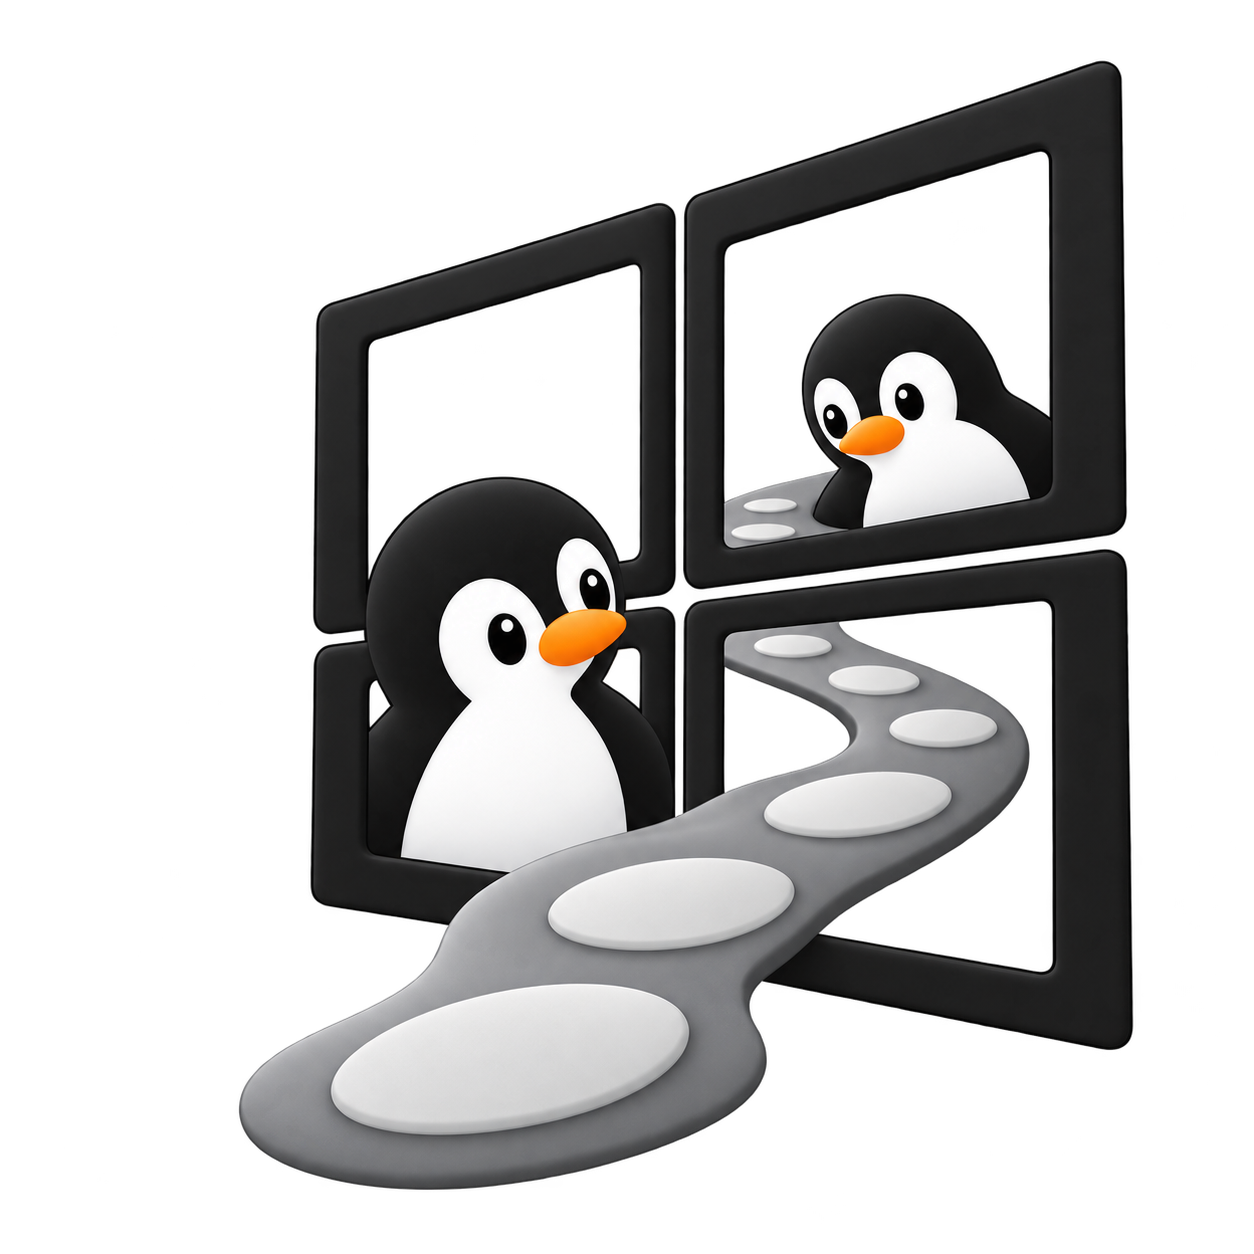
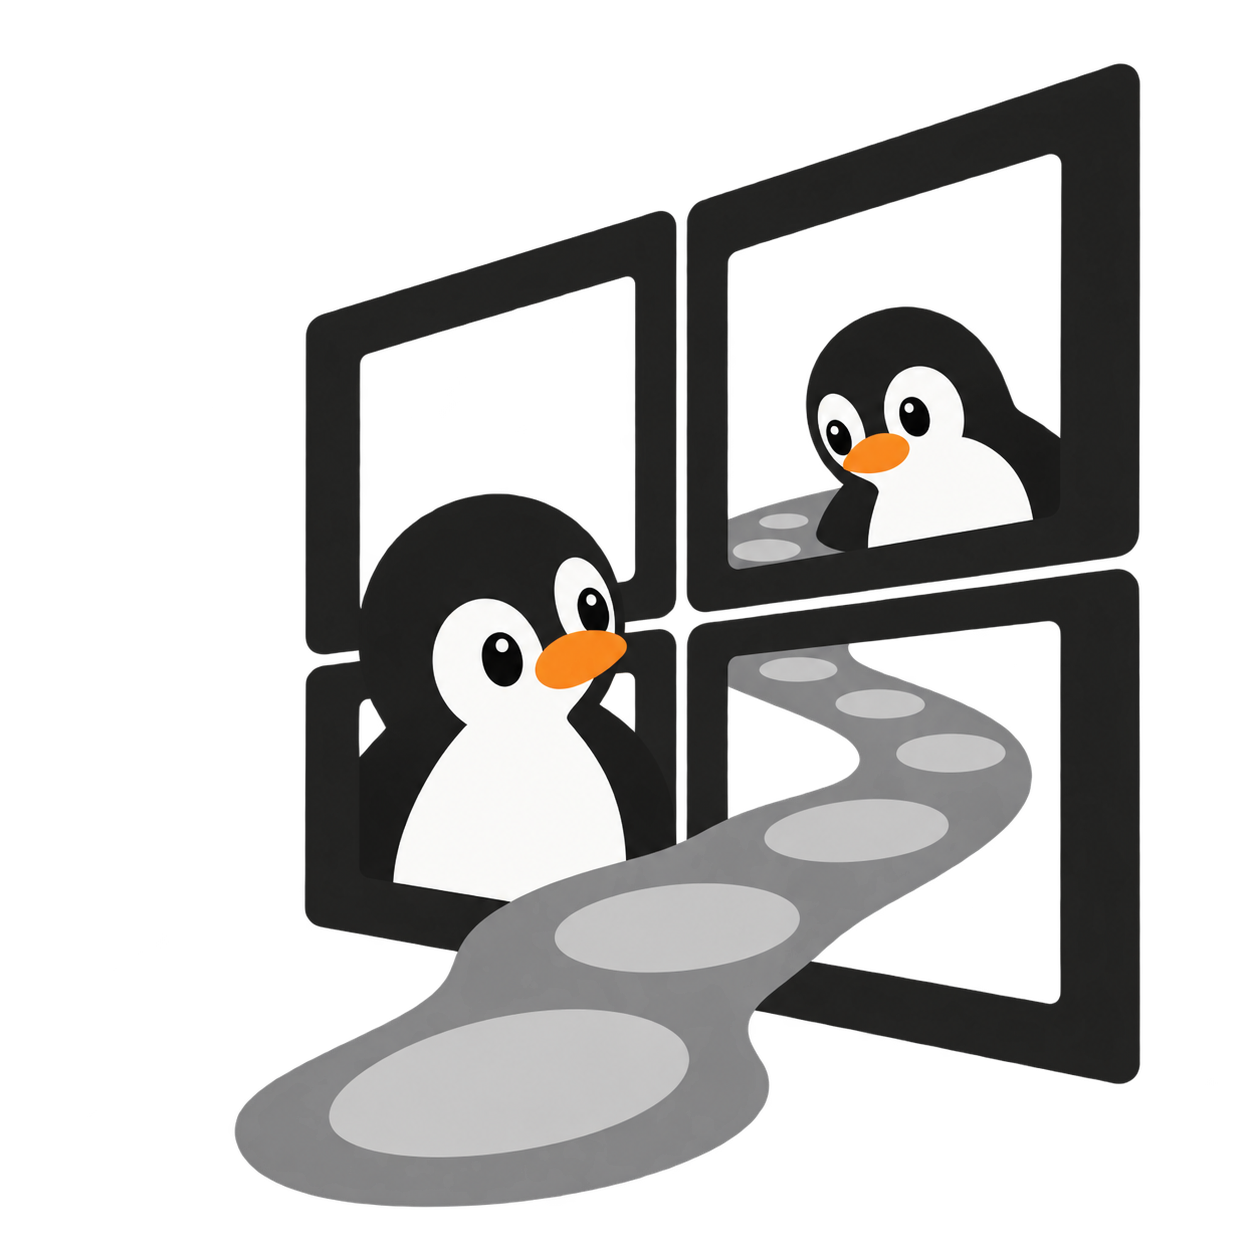
docs(assets): preserve independent application artwork updates
Preserve README and application image updates staged by separate work. Split these independent edits from the Venus queue verification change without altering their file contents.

Affects TODO: #1 (+0% progress)

diff --git a/README.md b/README.md
@@ -14,15 +14,14 @@ Unlike traditional full-screen virtual machine viewers, Waddle-LSW tracks indivi
 
 <img align="left" width="180" height="180" alt="Waddle-LSW Application Icon" src="imgs/default-window-icon.png" style="margin-right: 24px; margin-bottom: 20px;">
 
-The `waddle` CLI provides command-line control for subsystem lifecycle management, guest process execution, and device configuration:
+The `waddle` command provides access to the Windows guest and subsystem controls:
 
-- **Interactive Terminal**: Run `waddle` to start background services and open an interactive Windows ConPTY terminal session.
-- **Process Passthrough**: Execute commands directly inside the Windows guest using `waddle exec -- <command>`.
-- **Subsystem Lifecycle**: Manage background daemons and virtualization with `waddle start`, `waddle status`, and `waddle stop`.
-- **Filesystem Verification**: Validate VirtIO-FS shared directory mappings and read/write integrity with `waddle fs test`.
+- Start an interactive terminal with `waddle`. This starts the background services and opens a Windows ConPTY session.
+- Run a program in the guest with `waddle exec -- <command>`.
+- Start, inspect, or stop the subsystem with `waddle start`, `waddle status`, or `waddle stop`.
+- Check shared directory mappings and read/write access with `waddle fs test`.
 
 <br clear="left" />
-<br />
 
 ```bash
 # Launch interactive Windows shell (auto-starts background subsystem)

diff --git a/impl/software-vgpu-slicing/TRACKER.md b/impl/software-vgpu-slicing/TRACKER.md
@@ -501,7 +501,7 @@ the preceding entry's actual hash; `git log` resolves the latest entry directly.
     and software CI evidence. Split bootstrap (2%) from verified workload (6%)
     without treating empty submissions as GPU workload execution.
 
-- **Commit (current; resolve by subject)**: `fix(vgpu): preserve libc lookup across Zig objects`
+- **Commit `ff23bab`**: `fix(vgpu): preserve libc lookup across Zig objects`
   - **Task Impact**: +0% to TODO: #2 (+0% overall).
   - **Summary**: Compile Linux C-linked Zig objects with libc so a freestanding
     weak getauxval implementation cannot override system startup/driver lookups.
@@ -509,3 +509,8 @@ the preceding entry's actual hash; `git log` resolves the latest entry directly.
   - **Verification**: Original object reproduces null auxiliary-vector lookup;
     corrected objects pass regression and ASan/LSan/UBSan tests. Existing transport,
     receiver, request, runtime, service and mapped/exec suites plus sanitizers pass.
+
+- **Commit (current; resolve by subject)**: `docs(assets): preserve independent application artwork updates`
+  - **Task Impact**: +0% to TODO: #1 (+0% overall).
+  - **Summary**: Preserve separate README and application image changes staged
+    concurrently; no vGPU implementation credit.
